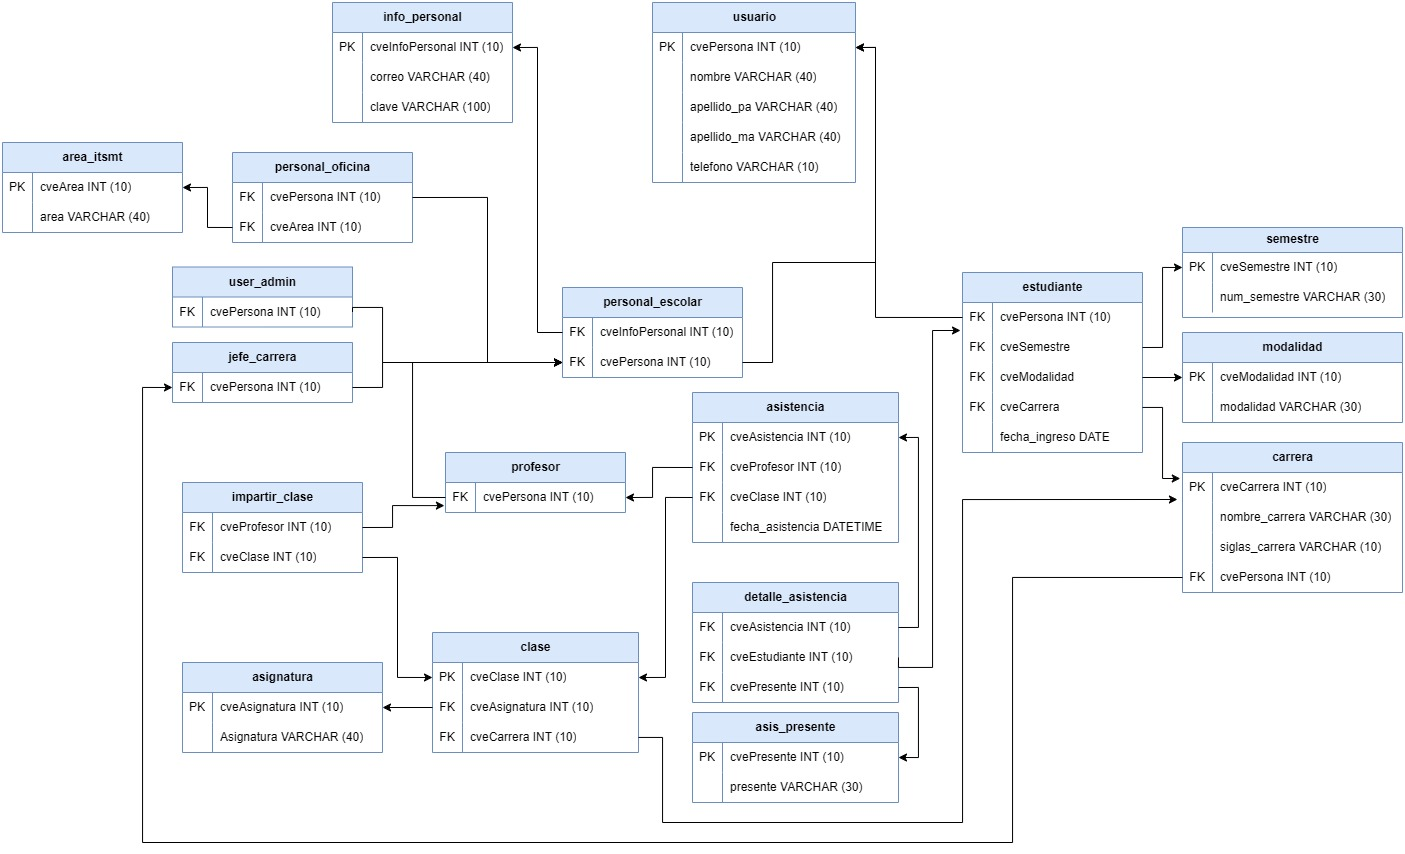
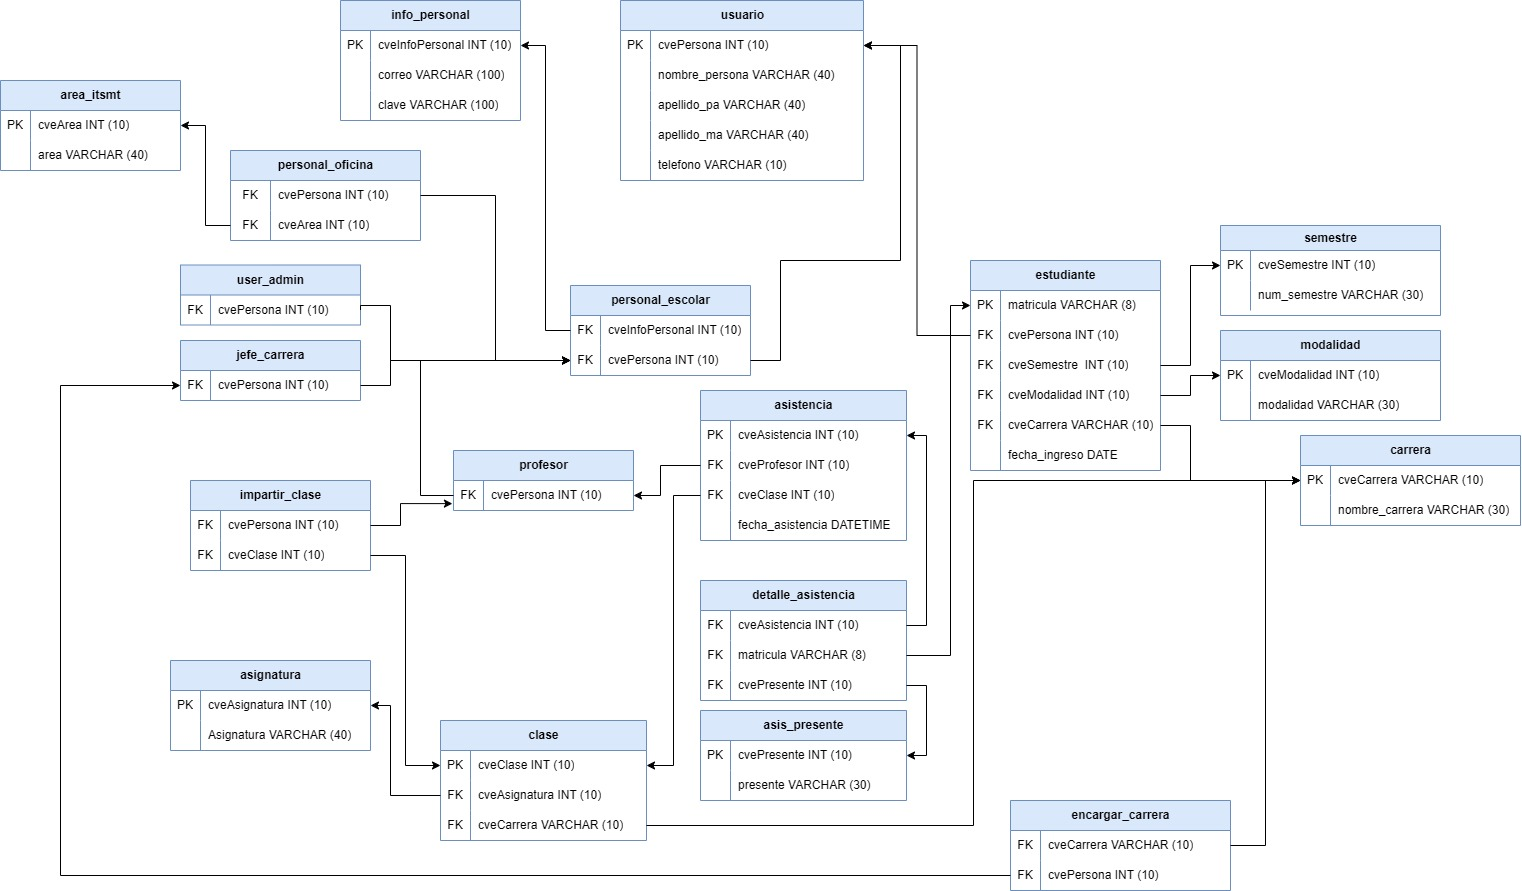
Add files via upload

Changed region(s): [[0.0918, 0.0, 1.0, 1.0], [0.0, 0.0, 0.3673, 0.4567], [0.8263, 0.6393, 0.9794, 0.7002]]

diff --git a/js/register-estudiante.js b/js/register-estudiante.js
@@ -5,18 +5,16 @@ $(document).ready(function () {
     //Inicializar funciones
     listarSemestre();
     listarModalidad();
+    listarGrupo();
 
     function listarSemestre() {
         $.ajax({
             type: "GET",
             url: "../../../php/listar_semestres.php",
             success: function (response) {
-
-                console.log(response); //verifica que lleguen datos en la terminal del navegador
-
                 if (!response.error) {
                     let semestre = JSON.parse(response);
-                    let datos = `<option  value="">Selecciona un semestre</option>`;
+                    let datos = `<option value="">Selecciona un semestre</option>`;
                     semestre.forEach(element => {
                         datos += `<option value='${element['cveSemestre']}'>${element['num_semestre']}</option>`;
                     });
@@ -33,7 +31,7 @@ $(document).ready(function () {
             success: function (response) {
                 if (!response.error) {
                     let modalidad = JSON.parse(response);
-                    let datosModalidad = `<option  value="">Selecciona la Modalidad</option>`;
+                    let datosModalidad = `<option value="">Selecciona la modalidad</option>`;
                     modalidad.forEach(element => {
                         datosModalidad += `<option value='${element['cveModalidad']}'>${element['modalidad']}</option>`;
                     });
@@ -42,6 +40,61 @@ $(document).ready(function () {
 
             }
         });
+    }
+
+    function listarGrupo() {
+        $.ajax({
+            type: "GET",
+            url: "../../../php/listar_grupo.php",
+            success: function (response) {
+                let grupo = JSON.parse(response);
+                console.log(grupo);
+                if (!response.error) {
+                    let datosGrupo = `<option value="">Selecciona un grupo</option>`;
+                    grupo.forEach(element => {
+                        datosGrupo += `<option value='${element['cveGrupo']}'>${element['num_semestre']} - ${element['modalidad']}</option>`;
+                    });
+                    $("#select__grupo").html(datosGrupo);
+                }
+
+            }
+        });
+    }
+
+    $('#nombre_usuario').blur(function (e) { // Evento blur es igual al Lost Focus de Java
+        e.preventDefault();
+        
+        let nombre = $(this).val(); // recupera el valor del input, su esa el this para hacer referencia al id
+
+        if (nombre.length > 3) { // verifica que el valor ingresado tenga más de tres digitos
+
+            $('#alert_nombre').html(''); // Vaciar alerta 
+            $('#alert_nombre').removeClass('invalid-feedback'); // remover color rojo de la alerta
+            $(this).removeClass('border-danger is-invalid'); // remover borde rojo e icono
+
+            if (validarNombre(nombre)) {// Llamada de la función donde se usa la expresion regular
+
+                $('#alert_nombre').html(''); // Vaciar la alerta
+                $('#alert_nombre').removeClass('invalid-feedback'); //remover la clase de la alerta
+                $(this).removeClass('border-danger is-invalid'); // remueve dos clases del input donde se genera el evento
+                $(this).addClass('border-success is-valid'); // agregar clases con un borde verde y afirmación
+            } else {
+                $('#alert_nombre').html('Nombre no valido'); // Agregar un mensaje a la alerta
+                $('#alert_nombre').addClass('invalid-feedback');// agregar color rojo a la alerta
+                $(this).removeClass('border-success is-valid');// quita el borde verde y la paloma verde
+                $(this).addClass('border-danger is-invalid');// agrega el borde rojo y el icono de alerta
+            }
+        } else {
+            $('#alert_nombre').html('Ingresar un nombre más largo');// Llena el span de alerta
+            $('#alert_nombre').addClass('invalid-feedback'); // clase de bootstrap que pone un iconoco de alerta
+            $(this).addClass('border-danger is-invalid'); // clase de bootstrap que pone el borde rojo
+        }
+
+    });
+
+    function validarNombre(nombre) {
+        var validar = /^[A-ZÁÉÍÓÚÑ][a-záéíóúñ]+$/;
+        return validar.test(nombre);
     }
 
 });

diff --git a/view/user/user-personal/registro-estudiante.php b/view/user/user-personal/registro-estudiante.php
@@ -27,54 +27,51 @@ include '../../../config/global.php';
 
                 <div class="col-md-6">
                     <label for="nombre_usuario" class="form-label">Nombre</label>
-                    <input type="text" class="form-control" id="nombre_usuario" placeholder="Nombre" required>
+                    <input type="text" class="form-control border-3" id="nombre_usuario" placeholder="Nombre" required>
+                    <span id="alert_nombre" class=""></span>
                 </div>
                 <div class="col-md-6">
                     <label for="apellido_pa" class="form-label">Apellido Paterno</label>
-                    <input type="text" class="form-control" id="apellido_pa" placeholder="Paterno" required>
+                    <input type="text" class="form-control border-3" id="apellido_pa" placeholder="Paterno" required>
+                    <span id="alerta_paterno"></span>
                 </div>
                 <div class="col-md-6">
                     <label for="apellido_ma" class="form-label">Apellido Materno</label>
-                    <input type="text" class="form-control" id="apellido_ma" placeholder="Materno" required>
+                    <input type="text" class="form-control border-3" id="apellido_ma" placeholder="Materno" required>
+                    <span id="alerta_materno"></span>
                 </div>
                 <div class="col-md-6">
                     <label for="telefono" class="form-label">No. Telefono</label>
-                    <input type="text" class="form-control" id="telefono" placeholder="Telefono" required>
+                    <input type="text" class="form-control border-3" id="telefono" placeholder="Telefono" required>
+                    <span id="alerta_telefono"></span>
                 </div>
                 <div class="col-md-6">
-                    <label class="form-label" for="select__semestre">Semestre</label>
-                    <select class="form-select" name="select__semestre" id="select__semestre">
-                       
-                     
-                    </select>
-                </div>
-                <div class="col-md-6">
-                    <label class="form-label" for="select__modalidad">Modalidad</label>
-                    <select class="form-select" name="select__modalidad" id="select__modalidad">
-                        
-                    </select>
+                    <label for="matricula" class="form-label">Matricula</label>
+                    <input type="text" class="form-control border-3" id="matricula" placeholder="matricula" required>
+                    <span id="alerta_matricula"></span>
                 </div>
                 <div class="col-md-6">
                     <label class="form-label" for="select__carrera">Carrera</label>
-                    <select class="form-select" name="select__carrera" id="select__carrera">
+                    <select class="form-select border-3" name="select__carrera" id="select__carrera">
                         
                     </select>
-                </div>
-                <!--
-                <div class="col-md-6">
-                    <label for="correo_usuario" class="form-label">Correo Electronico</label>
-                    <div class="input-group">
-                        <span class="input-group-text" id="inputGroupPrepend2">@</span>
-                        <input type="text" class="form-control" id="correo_usuario" placeholder="@email.com" required>
-                    </div>
+                    <span id="alerta_carrera"></span>
                 </div>
                 <div class="col-md-6">
-                    <label for="contra_usuario" class="form-label">Contraseña</label>
-                    <input type="password" class="form-control" id="contra_usuario" placeholder="Contraseña" required>
-                </div> -->
-
+                    <label class="form-label" for="select__grupo">Grupo</label>
+                    <select class="form-select border-3" name="select__grupo" id="select__grupo">
+                        
+                    </select>
+                    <span id="alerta_grupo"></span>
+                </div>
+                <div class="col-md-6">
+                    <label class="form-label" for="fecha__ingreso">Fecha de ingreso</label>
+                    <input type="text" class="form-control border-3" id="fecha__ingreso" name="fecha__ingreso" placeholder="AAAA-mm-dd" required>
+                    <span id="alerta_fecha"></span>
+                </div>
+                
                 <div class="col-12 text-center">
-                    <button class="btn btn-primary fw-bolder" type="submit">Guardar</button>
+                    <button disabled class="btn btn-primary fw-bolder" type="submit" id="btnGuardar" name="btnGuardar">Guardar</button>
                     <a class="btn btn-secondary fw-bold" href="<?= $ruta_raiz ?>/view/user/index.php">Cancelar</a>
                 </div>
 

diff --git a/php/validaciones.php b/php/validaciones.php
@@ -1,0 +1,26 @@
+<?php
+
+    function validarNombre ($nombre) {
+        return preg_match("/^([A-ZÁÉÍÓÚÑ][a-záéíóúñ]+(?:\\s[A-ZÁÉÍÓÚÑ][a-záéíóúñ]+)*)$/u", $nombre);
+    }
+
+    function validarApellido ($apellido){
+        return preg_match("/^[A-ZÁÉÍÓÚÑ][a-záéíóúñ]+$/u", $apellido);
+    }
+
+    function validarTelefono ($tel) {
+        return preg_match("/^[0-9]{10}+$/", $tel);
+    }
+
+    function validarCorreo ($correo) {
+        //$rule = "/^[a-zA-Z0-9._-]+@martineztorre.tecnm.mx$/";
+        //return preg_match($rule, $correo);
+        return filter_var($correo, FILTER_VALIDATE_EMAIL);
+    }
+
+    function validarPassword ($clave) {
+        return preg_match("/^(?=.*[a-z])(?=.*[A-Z])(?=.*\\d)(?=.*[#@%*])[A-Za-z\\d#@%*]{5,10}$/", $clave);
+    }
+
+
+?>

diff --git a/php/listar_grupo.php b/php/listar_grupo.php
@@ -2,7 +2,7 @@
 
 include 'conexion.php';
 
-$sql = "SELECT * FROM semestre";
+$sql = "SELECT cveGrupo, num_semestre, modalidad FROM semestre NATURAL JOIN grupo NATURAL JOIN modalidad";
 
 $query = $conexion -> query($sql);
 
@@ -14,11 +14,15 @@ $arreglo = array();
 
 while ($row = $query -> fetch_object()) {
     $arreglo [] = array(
-        "cveSemestre" => $row -> cveSemestre,
-        "num_semestre"=>$row->num_semestre
+        'cveGrupo'     => $row -> cveGrupo,
+        'num_semestre' => $row -> num_semestre,
+        'modalidad'    => $row -> modalidad
     );
 }
 
 $json = json_encode($arreglo, JSON_UNESCAPED_UNICODE);
 
 print_r($json);
+
+
+?>

diff --git a/php/conexion.php b/php/conexion.php
@@ -1,6 +1,6 @@
 <?php
 
-$conexion = new mysqli('localhost', 'root', '', 'pase_lista_itsmt','33065');
+$conexion = new mysqli('localhost', 'root', '', 'pase_lista_itsmt','3306');
 if ($conexion -> connect_error) {
     print_r('ERROR AL CONECTAR: ' . $conexion -> connect_error);
     exit();

diff --git a/php/listar_modalidad.php b/php/listar_modalidad.php
@@ -19,6 +19,6 @@ while ($row = $query -> fetch_object()) {
     );
 }
 
-$json = json_encode($arreglo);
+$json = json_encode($arreglo, JSON_UNESCAPED_UNICODE);
 
 print_r($json);
